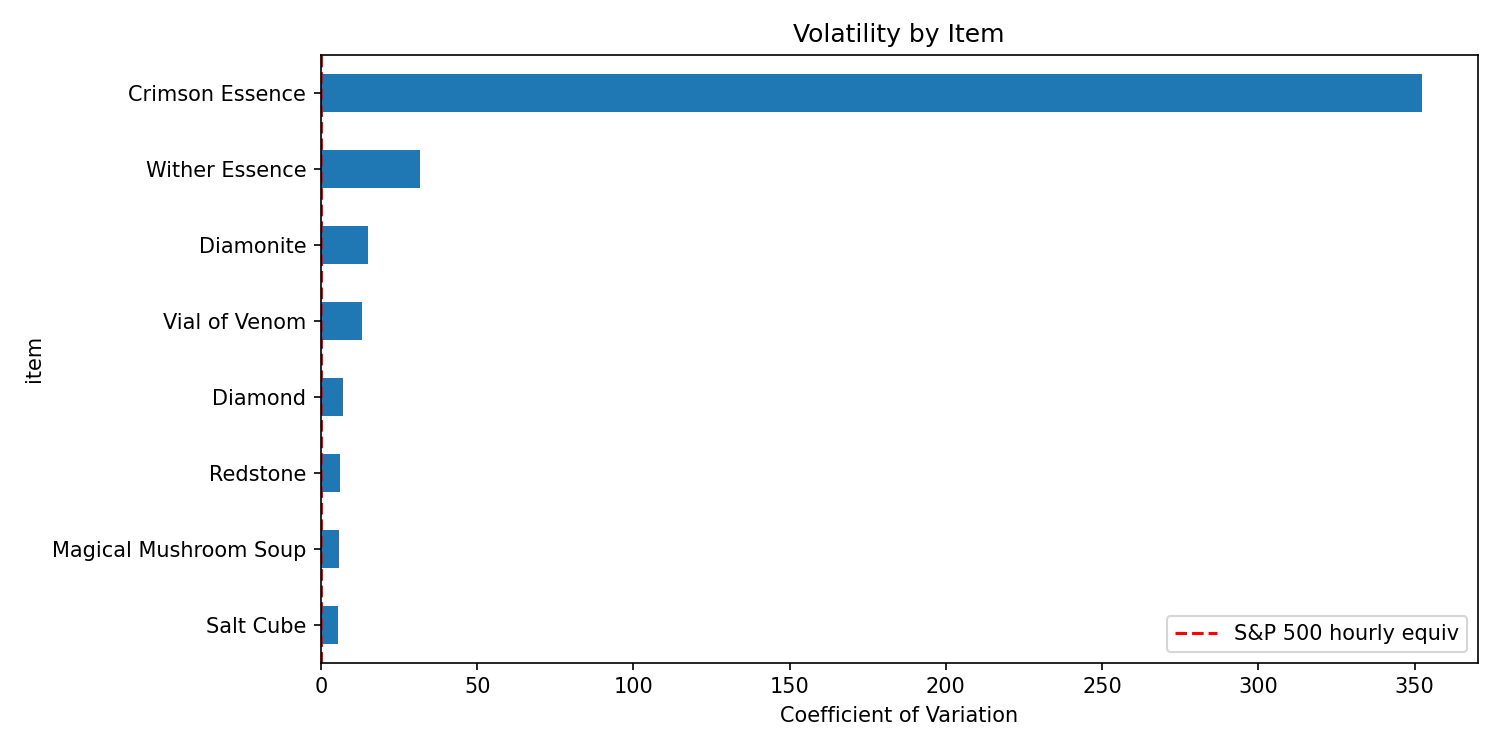
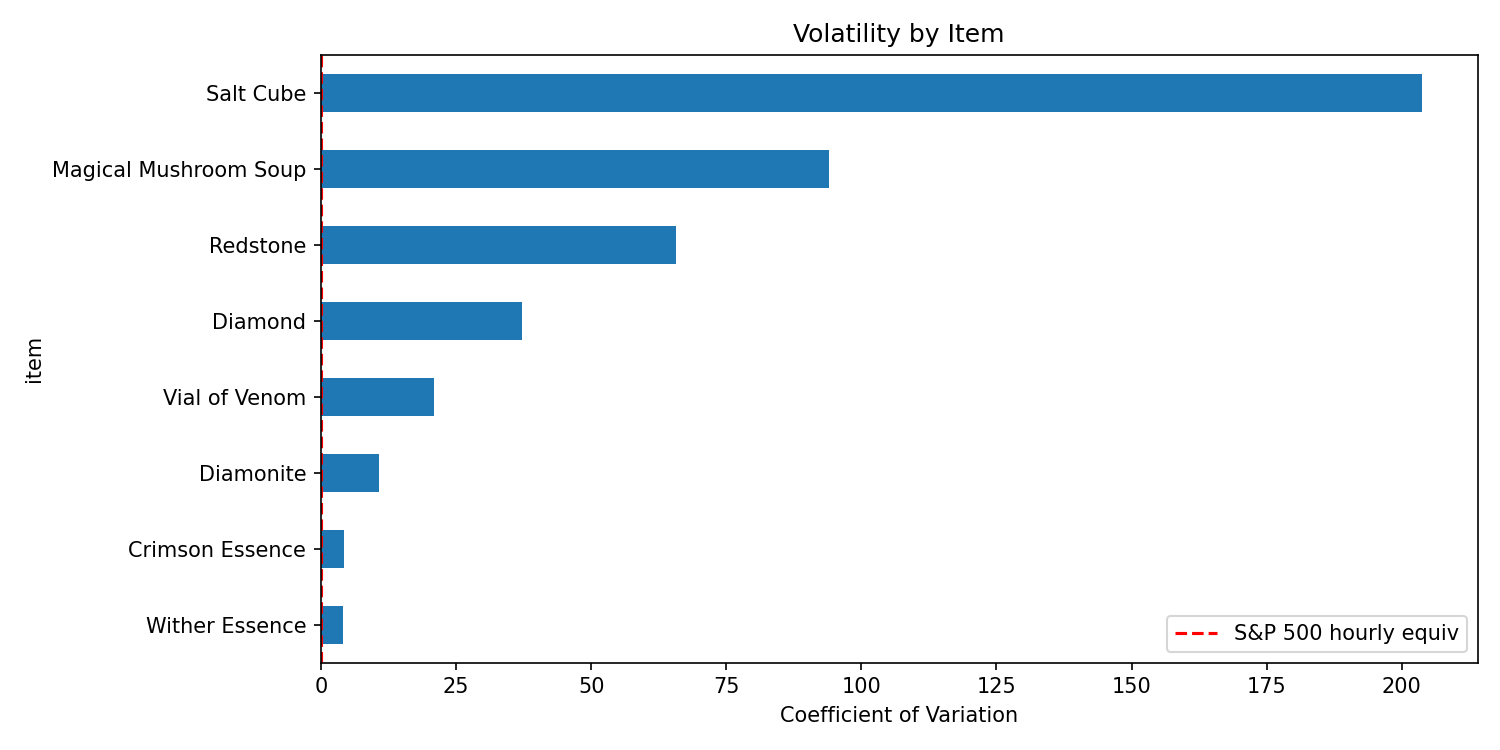
readme again

diff --git a/Analysis1/analysis.py b/Analysis1/analysis.py
@@ -98,7 +98,7 @@ plt.savefig("figures/autocorrelation.png", dpi=150)
 
 # 4. Volatility
 
-cv = returns.std() / returns.mean().abs()
+cv = returns.std() * np.sqrt(24 * 365)
 print(cv)
 
 fig, ax = plt.subplots(figsize=(10, 5))
@@ -127,9 +127,9 @@ print(summary.to_string())
 print()
 
 print("| Item | Mean Price | Std | CV | Min | Max | N |")
-print("|------|-----------|-----|-----|-----|-----|---|")
+print("|------|------------|-----|----|-----|-----|---|")
 for item, row in summary.iterrows():
-    name = nice_name_map.get(item, item)
+    name = nice_name_map.get(item)
     print(f"| {name} | {row['mean_price']:.2f} | {row['std_price']:.2f} | {row['coeff_variation']:.4f} | {row['min_price']:.2f} | {row['max_price']:.2f} | {int(row['n_observations'])} |")
 
 

diff --git a/Analysis1/README.md b/Analysis1/README.md
@@ -75,14 +75,14 @@ It may be useful for speculation, as it can sometimes increase in value dramatic
 
 | Item | Volatility |
 |------|------------|
-| Diamond | 7.118146 |
-| Diamonite | 15.170113 |
-| Crimson Essence | 352.530116 |
-| Wither Essence | 31.594726 |
-| Magical Mushroom Soup | 5.887288 |
-| Redstone | 6.224032 |
-| Salt Cube | 5.569963 |
-| Vial of Venom | 13.178217 |
+| Diamond | 37.205532 |
+| Diamonite | 10.758417 |
+| Crimson Essence | 4.239828 |
+| Wither Essence | 4.052143 |
+| Magical Mushroom Soup | 94.032288 |
+| Redstone | 65.777288 |
+| Salt Cube | 203.812004 |
+| Vial of Venom | 20.957374 |
 
 # Future Steps
 
